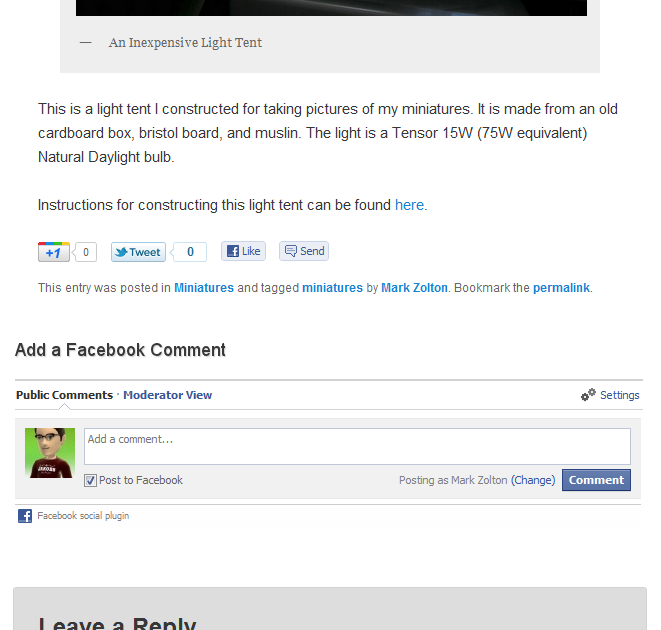
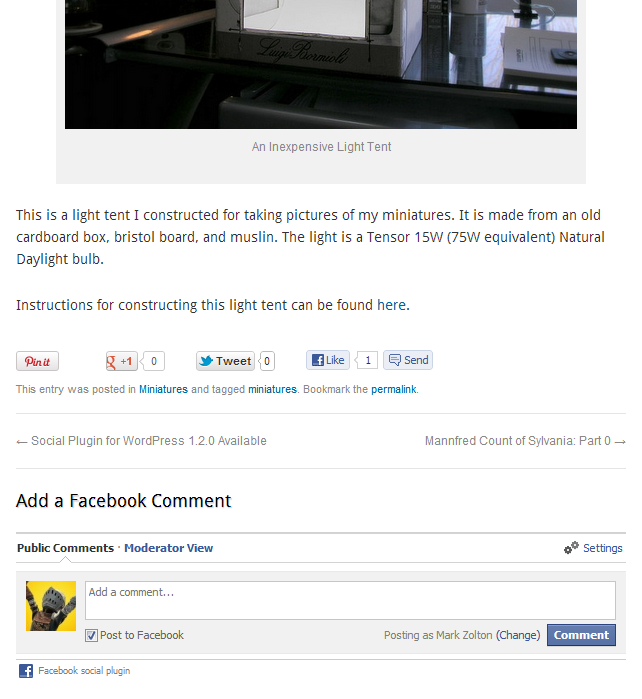
Added support for the Pinterest Pin It Button.

diff --git a/css/zosp-style.css b/css/zosp-style.css
@@ -10,20 +10,14 @@
 	display: block;
 	float: left;
 	height: 26px;
-	width: 120px; 
-	/* border: 1px solid red; */ 
+	/* border: 1px solid blue; */
 	padding: 0;
 	margin: 0;
 }
 
-.zosp-social-buttons .zosp-social-twitter
-{
-	height: 25px;
-	width: auto;
-	padding-top: 1px;
-}
-
-.zosp-social-buttons .zosp-social-plus-one
+.zosp-social-buttons .zosp-social-twitter,
+.zosp-social-buttons .zosp-social-plusone,
+.zosp-social-buttons .zosp-social-pinit
 {
 	height: 25px;
 	width: auto;
@@ -32,7 +26,8 @@
 
 .zosp-social-buttons .zosp-social-facebook
 {
-	width: 120px;
+	min-width: 130px;
+        max-width: 150px;
 }
 
 #facebook-comments 

diff --git a/zosp.php b/zosp.php
@@ -3,7 +3,7 @@
 /*  Plugin Name: Zolton.org Social Plugin
     Plugin URI: http://www.zolton.org/projects/social-plugin-for-wordpress/
     Description: Simple social networking integration for Wordpress.
-    Version: 1.3.1	
+    Version: 1.4.0	
     Author: Mark Zolton
     Author URI: http://www.zolton.org
     License: GPL2
@@ -79,6 +79,7 @@ function zosp_options_init() {
 	add_settings_field('zosp_options_fb_image', 'Default Facebook Image', 'zosp_options_fb_image_string', 'zosp-plugin', 'zosp_options_advanced');
 	add_settings_field('zosp_options_fb_comment_width', 'Facebook Comment Field Width (pixels)', 'zosp_options_fb_comment_width_string', 'zosp-plugin', 'zosp_options_advanced');
 	add_settings_field('zosp_options_fb_like_send', 'Show Facebook Send Button', 'zosp_options_fb_like_send_string', 'zosp-plugin', 'zosp_options_advanced');
+add_settings_field('zosp_options_pinit_button', 'Show Pinterest Pin It Button', 'zosp_options_pinit_button_string', 'zosp-plugin', 'zosp_options_advanced');
 	add_settings_field('zosp_options_hide_wpcomments', 'Hide Wordpress Comments', 'zosp_options_hide_wpcomments_string', 'zosp-plugin', 'zosp_options_advanced');
 }
 
@@ -166,6 +167,18 @@ function zosp_options_fb_like_send_string() {
 	value='1' $checked />";
 }
 
+function zosp_options_pinit_button_string() {
+	$options = get_option('zosp_options');
+	$checked = null;
+	
+	if($options['pinit_button'] == '1') { $checked = 'checked=\'checked\''; } 
+	
+	echo "<input id='zosp_options_pinit_button' type='checkbox' name='zosp_options[pinit_button]' 
+	value='1' $checked />";
+
+	echo "<p><strong>Note:</strong> Pin It button will only display on posts that have a featured image.</p>";
+}
+
 function zosp_options_hide_wpcomments_string() {
 	$options = get_option('zosp_options');
 	$checked = null;
@@ -185,6 +198,7 @@ function zosp_options_validate($input) {
 	$options['fb_image'] = trim($input['fb_image']);
 	$options['fb_comment_width'] = trim($input['fb_comment_width']);
 	$options['fb_like_send'] = trim($input['fb_like_send']);
+	$options['pinit_button'] = trim($input['pinit_button']);
 	$options['hide_wpcomments'] = trim($input['hide_wpcomments']);
 
 	return $options;
@@ -268,6 +282,10 @@ function zosp_facebook_js_sdk($c) {
 END;
 
 ?>
+<!-- Pinterest -->
+<script type="text/javascript" src="//assets.pinterest.com/js/pinit.js"></script>
+
+<!-- Google Plus One -->
 <script type="text/javascript">
   (function() {
     var po = document.createElement('script'); po.type = 'text/javascript'; po.async = true;
@@ -323,20 +341,40 @@ function zosp_social_buttons( $content ) {
 		
 		$options = get_option('zosp_options');
 		
+		$title = esc_attr( single_post_title( '', FALSE ) );
+		$site_name = esc_attr( get_bloginfo( 'name' ) );
+		$title .= ' from ' . $site_name;
+
 		$url = esc_url( get_permalink() );
 		$twitter_username = $options['twitter_username'];
 		$send = null;
 		
 		if($options['fb_like_send'] == '1') { $send = 'true'; }
 		else { $send = 'false'; } 
-		
+
+		// Get the featured image, if one exists.
+		$image = null;
+       		if ( has_post_thumbnail( get_the_ID() ) ) {
+            		$image = esc_url( wp_get_attachment_url( get_post_thumbnail_id( get_the_ID() ) ) );
+        	}
+
 		$new_content = <<<END
 <!-- ZO: Social Buttons --> 
 <div class="zosp-social-buttons">
-	<div class="zosp-social-button zosp-social-plus-one"><g:plusone size="medium"></g:plusone></div>
-	<div class="zosp-social-button zosp-social-twitter"><a href="http://twitter.com/share" class="twitter-share-button" data-count="horizontal" data-count="none" data-via="{$twitter_username}">Tweet</a>
-	<script type="text/javascript" src="http://platform.twitter.com/widgets.js"></script></div>
-	<div class="zosp-social-button zosp-social-facebook"><fb:like href="{$url}" layout="button_count" show_faces="false" width="400" font="" send="{$send}"></fb:like></div>
+END;
+
+		if($options['pinit_button'] == '1' && $image != null)
+		{
+			$new_content .= <<<END
+<div class="zosp-social-button zosp-social-pinit"><a href="http://pinterest.com/pin/create/button/?url={$url}&description={$title}&media={$image}" class="pin-it-button" count-layout="horizontal"><img border="0" src="//assets.pinterest.com/images/PinExt.png" title="Pin It" /></a></div>
+END;
+		}
+
+		$new_content .= <<<END
+<div class="zosp-social-button zosp-social-plusone"><g:plusone size="medium"></g:plusone></div>
+<div class="zosp-social-button zosp-social-twitter"><a href="http://twitter.com/share" class="twitter-share-button" data-count="horizontal" data-count="none" data-via="{$twitter_username}">Tweet</a>
+<script type="text/javascript" src="http://platform.twitter.com/widgets.js"></script></div>
+<div class="zosp-social-button zosp-social-facebook"><fb:like href="{$url}" layout="button_count" show_faces="false" width="400" font="" send="{$send}"></fb:like></div>
 </div>
 <!-- ZO: End Social Buttons -->
 END;
